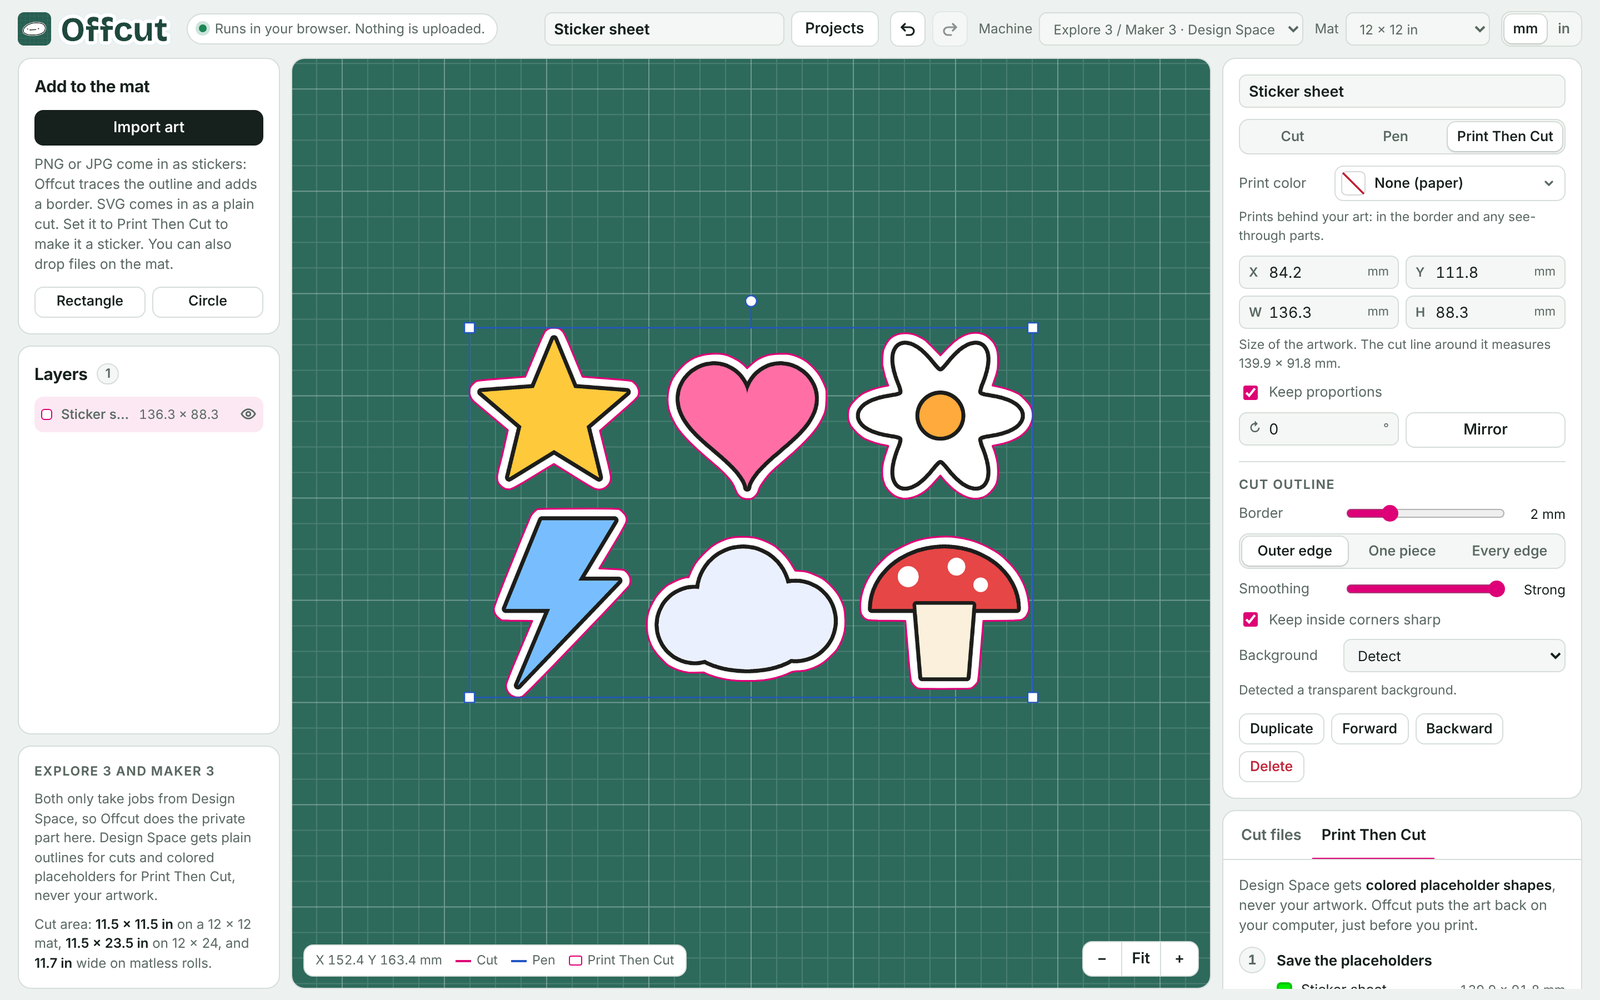
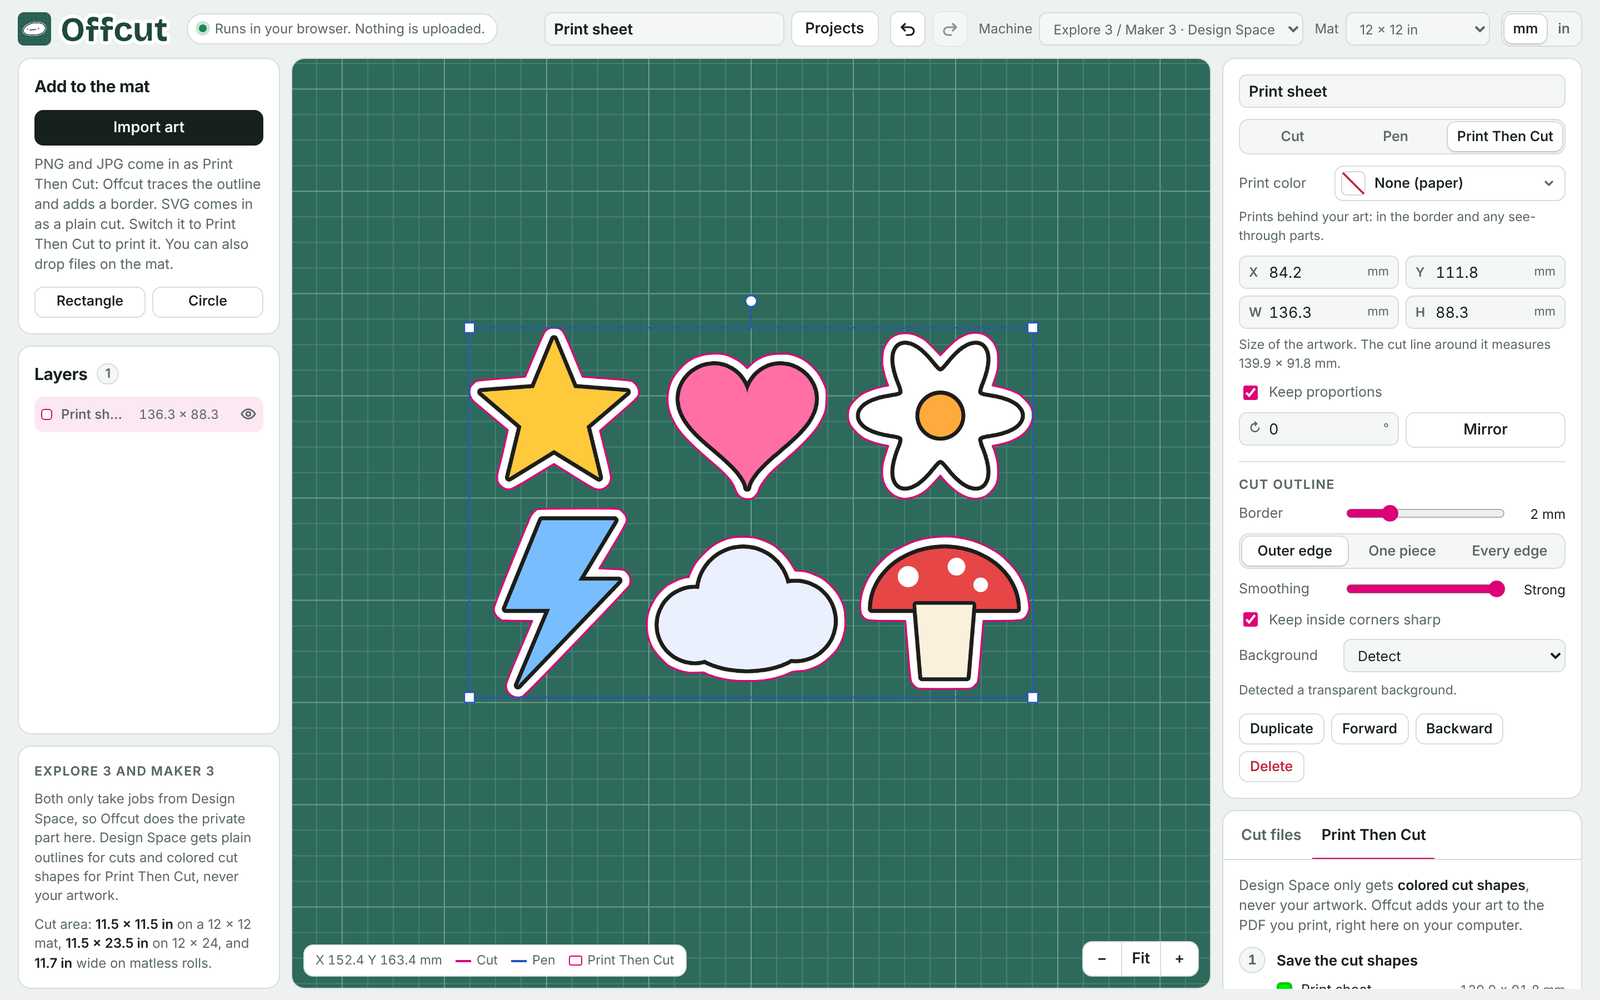
Add files via upload

diff --git a/index.html b/index.html
@@ -309,7 +309,7 @@ code{font-family:var(--font-mono);font-size:.92em;background:var(--panel-2);bord
     <section class="card pad">
       <h2>Add to the mat</h2>
       <button class="btn wide primary" id="btnImport">Import art</button>
-      <p class="hint">PNG or JPG come in as stickers: Offcut traces the outline and adds a border. SVG comes in as a plain cut. Set it to Print Then Cut to make it a sticker. You can also drop files on the mat.</p>
+      <p class="hint">PNG and JPG come in as Print Then Cut: Offcut traces the outline and adds a border. SVG comes in as a plain cut. Switch it to Print Then Cut to print it. You can also drop files on the mat.</p>
       <div class="row2"><button class="btn sm" id="btnRect">Rectangle</button><button class="btn sm" id="btnCircle">Circle</button></div>
     </section>
     <section class="card pad grow">
@@ -399,15 +399,15 @@ code{font-family:var(--font-mono);font-size:.92em;background:var(--panel-2);bord
       </div>
 
       <div class="pad stack" data-panel="ptc" hidden>
-        <p class="lead">Design Space gets <b>colored placeholder shapes</b>, never your artwork. Offcut puts the art back on your computer, just before you print.</p>
+        <p class="lead">Design Space only gets <b>colored cut shapes</b>, never your artwork. Offcut adds your art to the PDF you print, right here on your computer.</p>
         <div class="step" id="ptcStep1">
           <div class="sn">1</div>
           <div class="sb">
-            <h4>Save the placeholders</h4>
+            <h4>Save the cut shapes</h4>
             <ul class="chips" id="ptcList"></ul>
             <label class="kv"><span>Paper</span><select id="ptcPaper"><option value="a4">A4</option><option value="letter">US Letter</option></select></label>
             <div class="stack" id="ptcWarn" style="gap:6px"></div>
-            <button class="btn primary wide" id="btnPtcSvg">Save placeholder SVG</button>
+            <button class="btn primary wide" id="btnPtcSvg">Save cut shapes (SVG)</button>
           </div>
         </div>
         <div class="step" id="ptcStep2">
@@ -415,7 +415,7 @@ code{font-family:var(--font-mono);font-size:.92em;background:var(--panel-2);bord
           <div class="sb">
             <h4>Make the print page in Design Space</h4>
             <ol class="steps">
-              <li><b>Upload</b> the placeholder SVG. Check its size reads <b id="ptcSizeRef">—</b>.</li>
+              <li><b>Upload</b> the cut shapes SVG. Check its size reads <b id="ptcSizeRef">—</b>.</li>
               <li>Select all its layers and set <b>Operation</b> to <b>Print Then Cut</b>. With more than one layer, click <b>Flatten</b> so Design Space keeps your layout.</li>
               <li>Click <b>Make It</b>, <b>Continue</b>, then <b>Send to Printer</b>.</li>
               <li>Turn <b>Add Bleed</b> off and <b>Use System Dialog</b> on, then click <b>Print</b>.</li>
@@ -439,7 +439,7 @@ code{font-family:var(--font-mono);font-size:.92em;background:var(--panel-2);bord
             <h4>Print, then cut</h4>
             <button class="btn primary wide" id="btnPtcPdf" disabled>Save print-ready PDF</button>
             <p class="hint" style="margin:0">Print at <b>100% / Actual size</b> on the same paper, with no fit-to-page. Put the sheet on the mat and carry on in Design Space. If you closed it, open the project, click <b>Make It</b> and choose <b>I have already printed</b>.</p>
-            <div class="note">First time? Print on plain paper and let the machine scan the marks before you use sticker paper.</div>
+            <div class="note warn"><b>Test first.</b> Print and cut once on plain paper to check everything lines up before you use your final material.</div>
           </div>
         </div>
       </div>
@@ -1761,11 +1761,11 @@ function updatePtcPanel() {
 function buildPlaceholderSVG() {
   const groups = ensurePtcColors().map(o => ({ o, wp: closedWorld(o) })), b = boundsOf(groups.flatMap(g => g.wp));
   const W = +Math.max(0.1, b.w).toFixed(3), H = +Math.max(0.1, b.h).toFixed(3);
-  const out = [`<svg xmlns="http://www.w3.org/2000/svg" width="${W}mm" height="${H}mm" viewBox="0 0 ${W} ${H}">`, `<title>${esc(state.name)} · Print Then Cut placeholders from Offcut</title>`];
+  const out = [`<svg xmlns="http://www.w3.org/2000/svg" width="${W}mm" height="${H}mm" viewBox="0 0 ${W} ${H}">`, `<title>${esc(state.name)} · Print Then Cut shapes from Offcut</title>`];
   for (const g of groups) out.push(`<path id="${esc(slug(g.o.name))}-${g.o.id}" d="${svgD(g.wp, b.x0, b.y0)}" fill="${ptcHex(g.o.ptcColor)}" fill-rule="evenodd"><title>${esc(g.o.name)}</title></path>`);
   out.push('</svg>'); return out.join('\n');
 }
-$('#btnPtcSvg').onclick = () => { saveFile(slug(state.name) + '-placeholders.svg', buildPlaceholderSVG(), 'image/svg+xml'); ptcSaved = true; updatePtcPanel(); };
+$('#btnPtcSvg').onclick = () => { saveFile(slug(state.name) + '-cut-shapes.svg', buildPlaceholderSVG(), 'image/svg+xml'); ptcSaved = true; updatePtcPanel(); };
 
 function loadScript(src) { return new Promise((res, rej) => { const s = document.createElement('script'); s.src = src; s.onload = () => res(); s.onerror = () => rej(new Error('Could not load ' + src)); document.head.appendChild(s); }); }
 async function getPdfJs() { if (!window.pdfjsLib) { for (const u of PDFJS_URLS) await loadScript(u); } if (!window.pdfjsLib) throw new Error('no pdf.js'); return window.pdfjsLib; }
@@ -2020,12 +2020,12 @@ async function processPtcFile(file) {
       compose(pg, F, matches); pg.matches = matches;
       for (const m of matches) { total++; if (m.best) { ok++; seen.add(m.best.o.id); if (m.bleed) bleed = true; if (m.resized) resized.push(m); } }
     }
-    if (!total) { st.textContent = ''; notes(rep, [['warn', '<b>No colored shapes found.</b> In Design Space, set the placeholder layers to Print Then Cut, then open the PDF it saves when you print.']]); return; }
+    if (!total) { st.textContent = ''; notes(rep, [['warn', '<b>No colored shapes found.</b> In Design Space, set the cut shape layers to Print Then Cut, then open the PDF it saves when you print.']]); return; }
     ptcResult = { pages, name: file.name };
     pages.forEach((pg, i) => { const b = document.createElement('button'); b.className = 'thumb'; b.setAttribute('aria-label', `Preview page ${i + 1}`); const im = document.createElement('img'); im.alt = `Page ${i + 1}`; im.src = pageThumb(pg.canvas, 236); b.appendChild(im); b.onclick = () => openLightbox(i); thumbs.appendChild(b); });
     thumbs.hidden = false;
     const n = [];
-    n.push(ok === total ? ['ok', `<b>${total === 1 ? 'Your piece matched.' : `All ${total} pieces matched.`}</b> The artwork sits exactly where Design Space printed each shape. Tap the page to check it.`] : ['warn', `<b>${ok} of ${total} shapes matched.</b> The rest will print blank. Check the size in Design Space, save the placeholders again and redo step 2.`]);
+    n.push(ok === total ? ['ok', `<b>${total === 1 ? 'Your piece matched.' : `All ${total} pieces matched.`}</b> The artwork sits exactly where Design Space printed each shape. Tap the page to check it.`] : ['warn', `<b>${ok} of ${total} shapes matched.</b> The rest will print blank. Check the size in Design Space, save the cut shapes again and redo step 2.`]);
     const missing = pieces.filter(o => !seen.has(o.id)).map(o => esc(o.name));
     if (missing.length && ok) n.push(['', `Not in this PDF: ${missing.join(', ')}.`]);
     for (const m of resized) n.push(['warn', `Design Space printed <b>${esc(m.best.o.name)}</b> at ${Math.round(m.artK * 100)}% of its size. Offcut scaled the artwork to match, so print and cut still line up.`]);
@@ -2221,8 +2221,8 @@ $('#dsNotes').addEventListener('click', e => { const b = e.target.closest('[data
 
 /* ============================== machines ============================== */
 const MACHINE_INFO = {
-  explore3: '<h3>Explore 3 and Maker 3</h3><p>Both only take jobs from Design Space, so Offcut does the private part here. Design Space gets plain outlines for cuts and colored placeholders for Print Then Cut, never your artwork.</p><p>Cut area: <b>11.5 × 11.5 in</b> on a 12 × 12 mat, <b>11.5 × 23.5 in</b> on 12 × 24, and <b>11.7 in</b> wide on matless rolls.</p>',
-  cricut: '<h3>Cutting with Design Space</h3><p>Design Space gets plain outlines for cuts and colored placeholders for Print Then Cut, never your artwork.</p><p>The dashed line marks a 0.25 in margin. Check your machine’s own cut area.</p>',
+  explore3: '<h3>Explore 3 and Maker 3</h3><p>Both only take jobs from Design Space, so Offcut does the private part here. Design Space gets plain outlines for cuts and colored cut shapes for Print Then Cut, never your artwork.</p><p>Cut area: <b>11.5 × 11.5 in</b> on a 12 × 12 mat, <b>11.5 × 23.5 in</b> on 12 × 24, and <b>11.7 in</b> wide on matless rolls.</p>',
+  cricut: '<h3>Cutting with Design Space</h3><p>Design Space gets plain outlines for cuts and colored cut shapes for Print Then Cut, never your artwork.</p><p>The dashed line marks a 0.25 in margin. Check your machine’s own cut area.</p>',
   direct: '<h3>Cutting without Design Space</h3><p><b>Maker 1</b> with the open-source <a href="https://virtualabs.github.io/cutcutgo/" target="_blank" rel="noopener">CutCutGo</a> firmware, or any <b>GRBL</b> plotter or drag-knife cutter, cuts straight from Offcut over USB.</p><p>Open the downloaded Offcut.html in Chrome or Edge to connect.</p>'
 };
 function fillMats() {
@@ -2431,9 +2431,9 @@ function sampleSticker() {
 }
 const SAMPLE_HEART = '<svg xmlns="http://www.w3.org/2000/svg" width="44mm" height="40mm" viewBox="0 0 44 40"><path d="M22 38 C 9 28.5 1.5 21 1.5 12.5 C 1.5 6.2 6 1.5 11.6 1.5 C 15.8 1.5 19.5 3.9 22 7.6 C 24.5 3.9 28.2 1.5 32.4 1.5 C 38 1.5 42.5 6.2 42.5 12.5 C 42.5 21 35 28.5 22 38 Z M22 15 C 20 12 16 12 15 14.5 C 14 17 17 20.5 22 24.5 C 27 20.5 30 17 29 14.5 C 28 12 24 12 22 15 Z" fill="#E9B44C" fill-rule="evenodd"/></svg>';
 async function loadSamples() {
-  const st = await importRaster(sampleSticker(), 'Sample sticker', { w0: 62 });
+  const st = await importRaster(sampleSticker(), 'Sample print', { w0: 62 });
   const ht = await importSVG(SAMPLE_HEART, 'Sample heart cut-out');
-  if (st) { st.x = 78; st.y = 86; st.name = 'Sample sticker'; }
+  if (st) { st.x = 78; st.y = 86; st.name = 'Sample print'; }
   if (ht) { ht.x = 196; ht.y = 70; }
   state.objects = [st, ht].filter(Boolean); state.selId = st ? st.id : null; state.isSample = true; $('#sampleNote').hidden = false;
 }

diff --git a/README.md b/README.md
@@ -6,9 +6,9 @@
 
 Everything you upload to Design Space is stored on Cricut's servers, and since their [latest terms update](https://cricut.com/en-us/legal) they have wide rights over it. I didn't want my art ending up in AI training, so I made Offcut.
 
-Offcut runs in your browser. Design Space only gets the outline colored shapes to cut around, and when you print, Offcut swaps in your real artwork. Your art never leaves your computer.
-
-No install, no account, nothing uploaded.
+- Runs in your browser. No install, no account, nothing uploaded.
+- Design Space only gets plain colored shapes to cut around.
+- Your artwork always stays on your computer. Offcut only uses it there to make the PDF you print.
 
 ---
 
@@ -24,18 +24,18 @@ No install, no account, nothing uploaded.
 - [Disclaimer](#disclaimer)
 - [License](#license)
 
-![Offcut with a sheet of stickers on the mat](docs/screenshot.png)
+![Offcut with a sheet of designs on the mat](docs/screenshot.png)
 
 ## How it works
 
-1. **Import your art.** A PNG, JPG or SVG, one sticker or a whole sheet. Offcut traces the cut line for you.
-2. **Save the placeholder.** Each piece becomes a flat colored shape with the same size and outline.
-3. **Upload it to Design Space** and set it to Print Then Cut, like you normally would.
-4. **Save the print page as a PDF** instead of printing it.
-5. **Open that PDF in Offcut.** It swaps the colored shapes for your artwork, lined up exactly.
-6. **Print Offcut's PDF and cut.** The machine reads the marks and cuts around your art.
+1. **Import your art.** A PNG, JPG or SVG, one single design or a whole sheet. Offcut draws the cut line around it.
+2. **Save the cut shapes.** Offcut saves a file with just the outline of each piece, filled with a flat color. There's no artwork in it.
+3. **Upload the shapes to Design Space** and set them to Print Then Cut, like you normally would.
+4. **Save the print page as a PDF** instead of printing it. It has your shapes plus the black marks the machine reads.
+5. **Open that PDF in Offcut.** Offcut replaces each colored shape with your real artwork, in exactly the same spot.
+6. **Print the new PDF and cut.** The machine reads the marks and cuts around your art.
 
-![Your artwork stays in Offcut. Design Space only gets flat placeholder shapes.](docs/what-design-space-sees.png)
+![Your artwork stays in Offcut. Design Space only gets flat colored cut shapes.](docs/what-design-space-sees.png)
 
 ### What stays private, and what doesn't
 
@@ -52,20 +52,23 @@ Projects save automatically in your browser, on your computer. The online versio
 
 ## Step by step
 
+> [!TIP]
+> **Test first.** Print and cut once on plain paper to check everything lines up before you use your final material.
+
 **In Offcut**
 
 1. Set **Machine** to your machine and **Mat** to the mat you'll use.
-2. Click **Import art** and pick a PNG, JPG or SVG. For several stickers, use one file with all of them on it. Offcut traces each piece.
-   - PNG and JPG come in as stickers.
-   - SVG comes in as a plain cut. Click **Print Then Cut** to make it a sticker.
+2. Click **Import art** and pick a PNG, JPG or SVG. For several designs, put them all in one file. Offcut traces each piece.
+   - PNG and JPG come in set to Print Then Cut.
+   - SVG comes in as a plain cut. Click **Print Then Cut** to print it.
 3. Check the size. **W** and **H** show the size of the artwork itself. For PNG and JPG, Offcut reads the size from the file's DPI.
 4. Under **Cut outline**, set the border and smoothing. Tick **Keep inside corners sharp** if you want smooth outer curves but crisp notches.
 5. Want a colored border, or a shape printed in a color? Pick it under **Print color**.
-6. Open the **Print Then Cut** tab, pick your paper and click **Save placeholder SVG**.
+6. Open the **Print Then Cut** tab, pick your paper and click **Save cut shapes (SVG)**.
 
 **In Design Space**
 
-7. Upload the placeholder SVG and check its size matches what Offcut shows.
+7. Upload the cut shapes SVG and check its size matches what Offcut shows.
 8. Select all its layers and set **Operation** to **Print Then Cut**. With more than one layer, click **Flatten** so your layout stays as it is.
 9. Click **Make It**, **Continue**, then **Send to Printer**.
 10. Turn **Add Bleed** off and **Use System Dialog** on, then click **Print**.
@@ -77,22 +80,20 @@ Projects save automatically in your browser, on your computer. The online versio
 13. Click **Save print-ready PDF** and print it at **100% / Actual size**, with no fit-to-page.
 14. Put the sheet on the mat and carry on in Design Space. If you closed it, open the project, click **Make It** and choose **I have already printed**.
 
-First time? Print on plain paper and let the machine scan the marks before you use sticker paper.
-
 ## Features
 
-- Sticker outlines traced from PNG, JPG or SVG: outer edge, one piece or every edge
+- Cut lines traced from PNG, JPG or SVG: outer edge, one piece or every edge
 - Adjustable border, smoothing, and sharp inside corners
 - Print color for borders and shapes, with basic, recent and custom colors
 - SVG art prints at full sharpness
 - Real-size import from the image's DPI
-- Whole sheets of stickers in one go, including rotated copies
+- Whole sheets of designs in one go, including rotated copies
 - Matching that handles bleed and sub-millimeter shifts
 - Plain cuts and pen lines, exported as SVG for Design Space
 - Projects saved in the browser, plus project files for backup
 - Light and dark mode
 
-**Other machines (experimental):** direct cutting over USB for GRBL plotters and a Maker 1 running the open-source [CutCutGo](https://github.com/virtualabs/cutcutgo) firmware, in Chrome or Edge. Explore 3 and Maker 3 only take jobs from Design Space, which is why Offcut uses placeholders for them.
+**Other machines (experimental):** direct cutting over USB for GRBL plotters and a Maker 1 running the open-source [CutCutGo](https://github.com/virtualabs/cutcutgo) firmware, in Chrome or Edge. Explore 3 and Maker 3 only take jobs from Design Space, which is why Offcut sends them cut shapes instead.
 
 ## Limits
 
